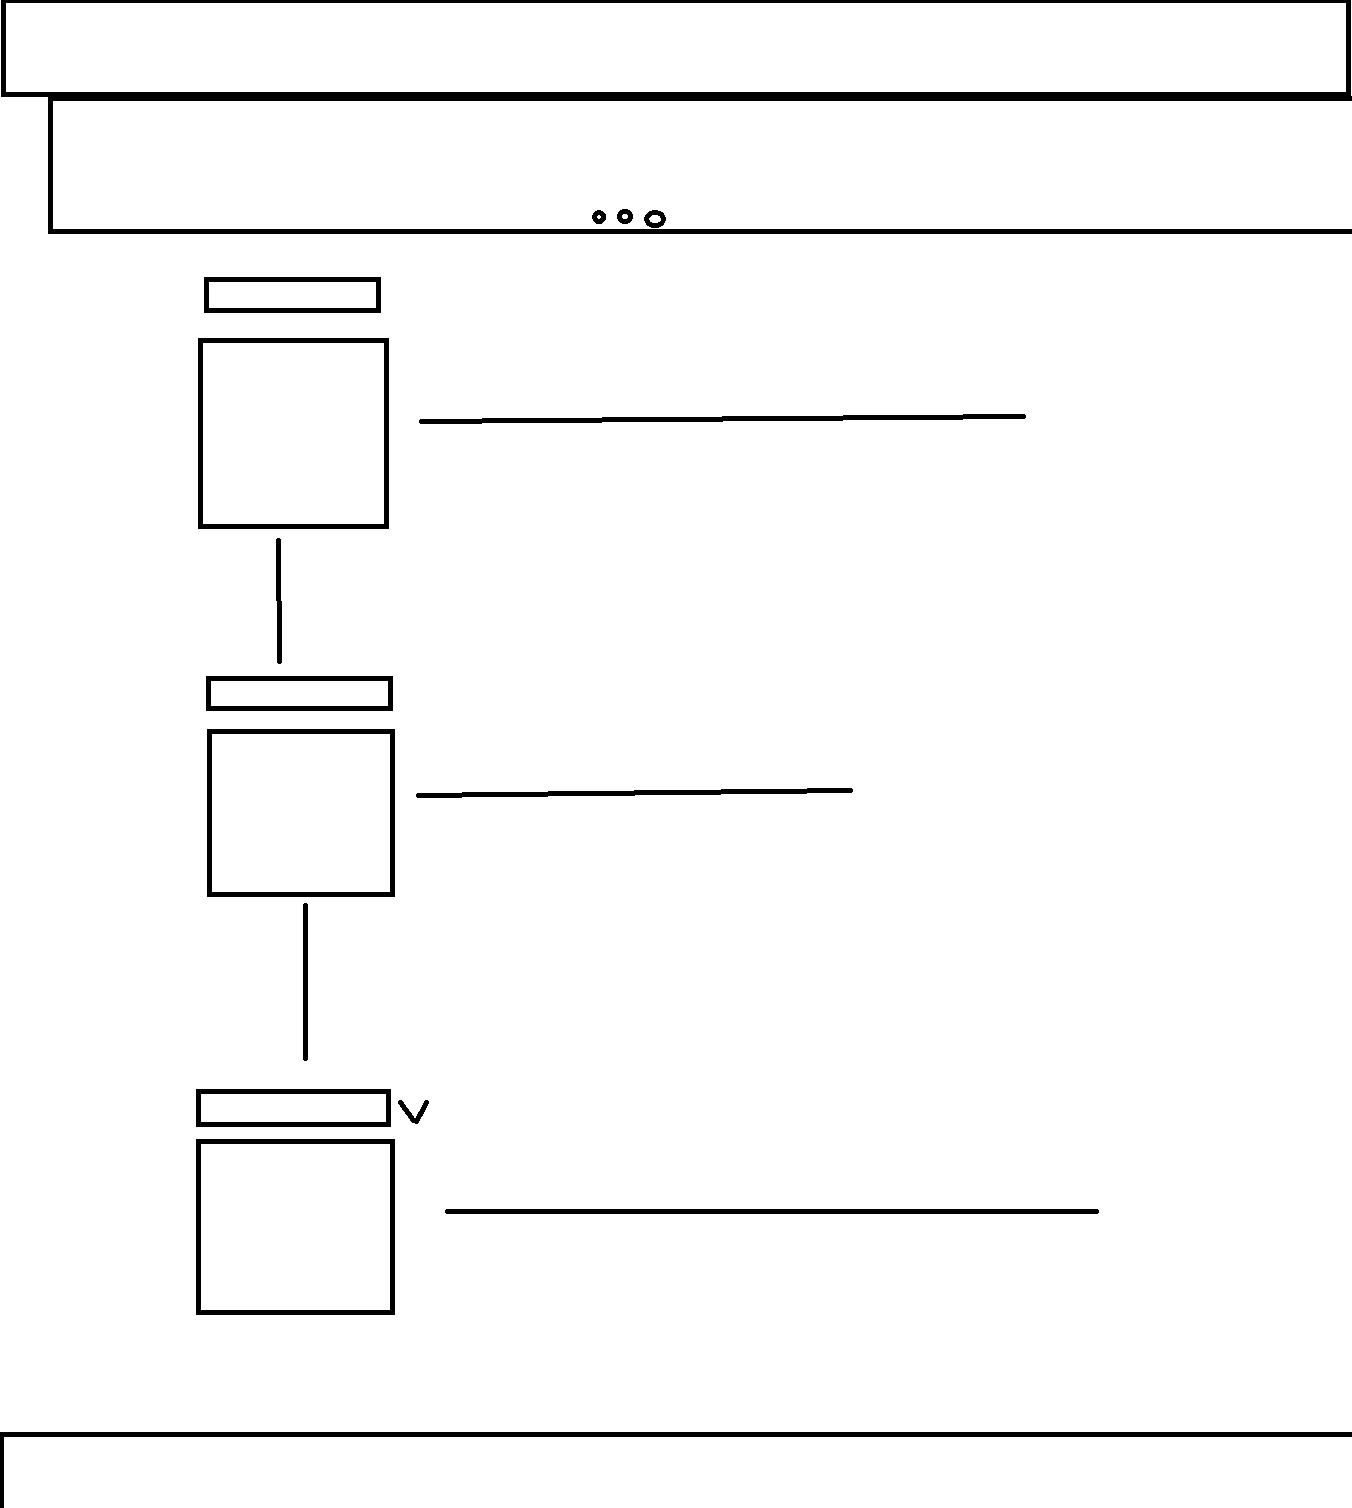
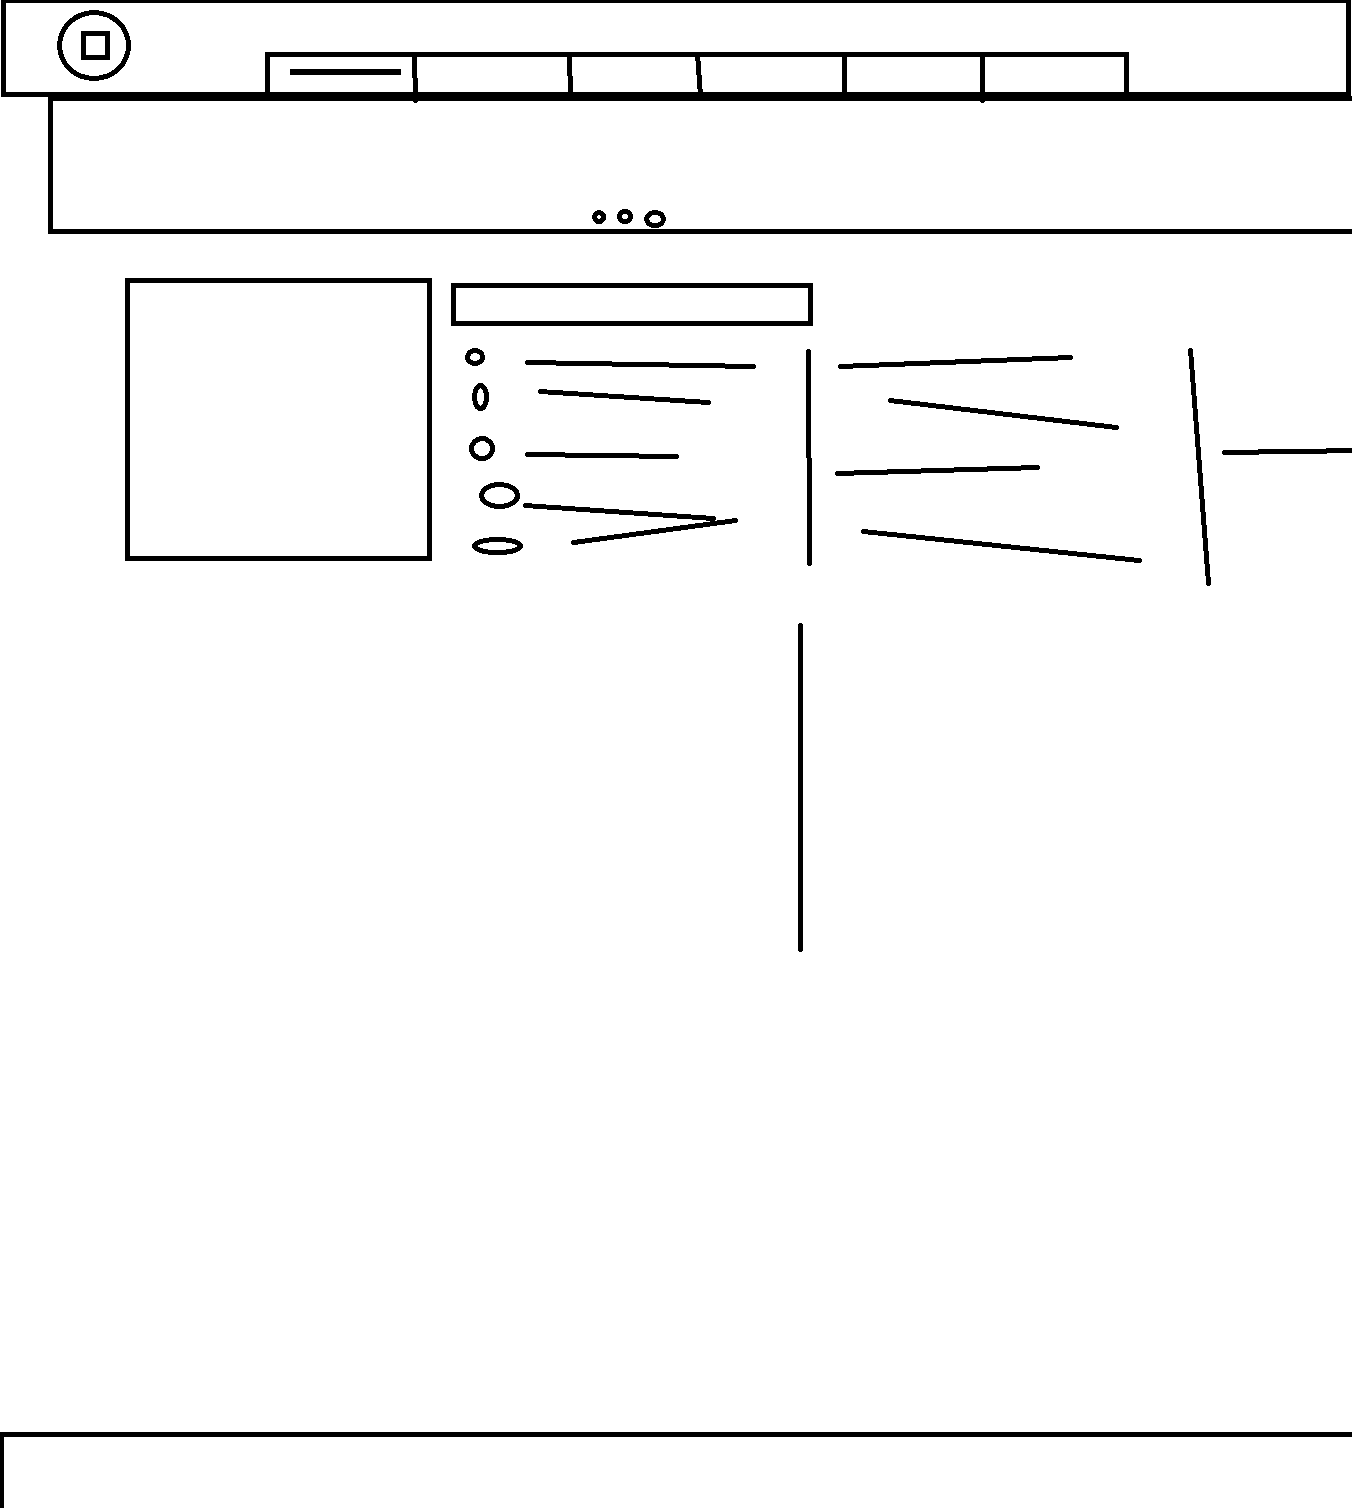
Estructura html basica home

diff --git a/Home.html b/Home.html
@@ -8,6 +8,36 @@
     <title>Document</title>
 </head>
 <body>
-    
+    <header>
+        <img src="https://upload.wikimedia.org/wikipedia/commons/thumb/1/19/Spotify_logo_without_text.svg/1200px-Spotify_logo_without_text.svg.png" alt="Logo">
+        <div class="tags">
+            <ul>
+                <li>home</li>
+                <li>about</li>
+                <li>help</li>
+                <li>categories</li>
+            </ul>
+        </div>
+        <div class="buscador"></div>
+    </header>
+    <div class="container">
+
+    </div>
+    <footer>
+        <div class="tags">
+            <ul>
+                <li>home</li>
+                <li>about</li>
+                <li>help</li>
+                <li>categories</li>
+            </ul>
+        </div>
+        <ul>
+            <li> <a href="about.html">Joaquin Gomez Rodriguez</a></li>
+            <li><a href="about.html">David Oranges</a></li>
+            <li><a href="about.html">Isaac Leonardo Yoon</a></li>
+        </ul>
+        <a href="https://www.deezer.com/en/"><img src="images/deezerLogo.png" alt="Deezer logo"></a>
+    </footer>
 </body>
 </html>

diff --git a/about.html b/about.html
@@ -1,0 +1,13 @@
+<!DOCTYPE html>
+<html lang="en">
+<head>
+    <meta charset="UTF-8">
+    <meta name="viewport" content="width=device-width, initial-scale=1.0">
+    <link rel="stylesheet" href="css/about.css">
+    <script src="js/about.js"></script>
+    <title>Document</title>
+</head>
+<body>
+    
+</body>
+</html>
